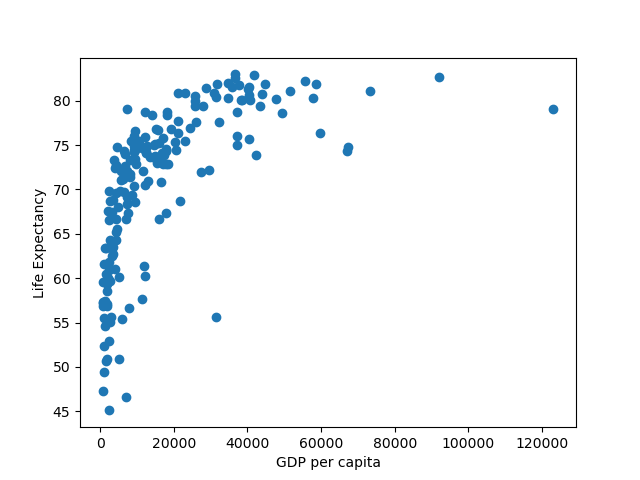
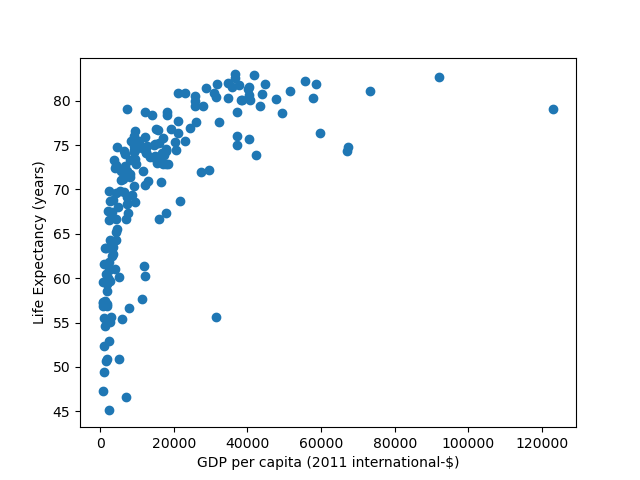
Improved report

Changed region(s): [[0.3125, 0.9375, 0.7188, 1.0], [0.0312, 0.3438, 0.0938, 0.6562]]

diff --git a/assignment1/src/internet_household_gdp.py b/assignment1/src/internet_household_gdp.py
@@ -1,0 +1,67 @@
+import numpy as np
+import pandas as pd
+import sys
+import matplotlib.pyplot as plt
+
+# Which countries have high life expectancy but have low GDP?
+# For the sake of the assignment,
+# lets assume that high and low represents is based on the standard deviation.
+# To which extent can be set by adjusting the variable STD_CONSTANT below
+
+# 0.253 is a z score indicating 60 (or 40) %.
+STD_CONSTANT = 0
+SELECTED_YEAR = 2016
+
+# Setup constants
+GDP = "Output-side real GDP per capita (2011 international-$)"
+HOUSEHOLD = "Share of one person households (%)"
+INTERNET = "Individuals using the Internet (% of population)"
+
+# use pandas to read csv
+df_gdp = pd.read_csv("../res/gdp.csv")
+df_internet = pd.read_csv("../res/share-of-individuals-using-the-internet.csv")
+df_households = pd.read_csv("../res/one-person-households.csv")
+
+# filter data on selected year
+gdp_entries = df_gdp[(df_gdp["Year"] == SELECTED_YEAR)]
+internet_entries = df_internet[(df_internet["Year"] == SELECTED_YEAR)]
+household_entries = df_households[(df_households["Year"] == SELECTED_YEAR)]
+
+
+# merge entries with inner join. Excluding entities not available in both datasets.
+merged_entries = pd.merge(gdp_entries, internet_entries, on=["Code", "Year", "Entity"])
+merged_entries = pd.merge(merged_entries, household_entries, on=["Code", "Year", "Entity"])
+
+print(merged_entries.count)
+
+# get standard deviation and mean from entries
+gdp_std = np.std(merged_entries[GDP])
+gdp_mean = np.mean(gdp_entries[GDP])
+
+
+
+highGdp = merged_entries[(merged_entries[GDP] >= gdp_mean + gdp_std * STD_CONSTANT )]
+
+rest = merged_entries.drop(highGdp.index)
+
+
+fig, ax = plt.subplots()
+
+
+inputs = [(highGdp, "blue", "GDP per capita above the mean"),
+            (rest, "gray", "GDP per capita below or equal to the mean")
+          ]
+
+for df, color, label in inputs:
+    ax.scatter(df[HOUSEHOLD], df[INTERNET], c=color, s=75, label=label,
+               alpha=0.8, edgecolors='none')   
+
+ax.legend()
+
+plt.xlabel(HOUSEHOLD)
+plt.ylabel(INTERNET)
+plt.savefig("../fig/intenet_household_gdp_2016.png")
+plt.show()
+
+
+

diff --git a/assignment1/report.md b/assignment1/report.md
@@ -8,7 +8,7 @@
 
 - Decisions
 
-  - We selected two datasets from different sources. We found datasets containing both life expectancy and GDP per capita. But we wanted to use two datasets for the learning of experience of merging datasets. 
+  - We selected two datasets from different sources. We found datasets containing both life expectancy and GDP per capita. But we wanted to use two datasets for the learning experience of merging datasets. 
   - We decided to merge the data-sets and only include entities within both.
   - We selected year 2017 because that was the latest year that both our datasets had data from.
 
@@ -65,7 +65,11 @@ Out of the 182 entities examined, the following had a life expectancy higher tha
 
 (33 entities)
 
+Below is a code snippet showing the merging of the datasets, how the mean and standard deviation was created and finally how the countries with one standard deviation above the mean were found.
+
 ```python
+# merge entries with inner join. Excluding entities not available in both datasets.
+merged_entries = pd.merge(gdp_entries, life_entries, on=["Code", "Year", "Entity"])
 # Get standard deviation and mean from dataframe
 life_std = np.std(merged_entries[LIFE])
 life_mean = np.mean(merged_entries[LIFE])
@@ -137,17 +141,16 @@ Using this assumption and the previously stated assumption about a high life exp
 - Seychelles
 - Trinidad and Tobago
 
+The following code snippet displays how the countries with a strong economy but not a high life expectancy were found.
 ```python
-# merge dataframes
-merged_entries = pd.merge(gdp_entries, life_entries, on=["Code", "Year", "Entity"])
-
-# get standard deviation and mean from entries (same for life_std and life_mean)
-gdp_std = np.std(merged_entries[GDP])
-gdp_mean = np.mean(merged_entries[GDP])
-
 # filter based on having strong economy
 strong_economy = merged_entries[
     merged_entries[GDP] > gdp_mean + gdp_std * STD_CONSTANT
+]
+
+# filter based on having not high life expectancy
+not_high_life_strong_economy = strong_economy[
+    strong_economy[LIFE] < life_mean + life_std * STD_CONSTANT
 ]
 ```
 
@@ -186,6 +189,8 @@ df_clean = df_clean.rename(columns={GDP: "GDP (2011 international-$)", 'Entity':
 
 df_clean.head(2)
 ```
+
+The cleaned data looked like below:
 
 | index | Entity, 2017  | GDP ((2011 international-\$)) | Life expectancy (years) |
 | ----- | -------       | ----------------------------- | ----------------------- |
@@ -234,27 +239,35 @@ Below are scatterplots exploring correlation between two datasets.
 
 ### Internet usage vs One person households
 
+The graph displays the correlation between the percentage a population of a country that uses the internet and the share of one-person households (2016).
+
 ![img](fig/internet_household_2016.png)
 
-The graph displays the correlation between the percentage of the population that uses the internet and the share of one-person households. It tells us that a country with a high percentage of internet-users does often has a high share of one-person households. This seems reasonable as you can live alone but still interact with friends and family on an everyday basis. It is easy to assume that there is a causation between the two.
 
-However, there might not be a causation at all. Instead, the reason for this correlation might be that people choose to live alone when they have enough money and that internet is used more in countries with a high GDP. 
-- The share of one person households and GDP is strongly correlated. 
-- Internet usage and GDP is strongly correlated
+
+We selected the year 2016 since that was the latest year in which the datasets still had a solid amount of data points. 
+
+The graph tells us that a country with a high percentage of internet-users does often has a high share of one-person households. At a first glance this seems reasonable as with the internet you can live alone but still have the everyday interactions with friends and family as you would have if you lived with other people. It is easy to assume that the internet might have increased the share of people who live alone. 
+
+However, there might not be a causation at all. By coloring countries with a GDP per capita above the mean, one notices that almost all the countries that have a high percentage of internet-users and a high share of one-person households also has a high GDP. At the other hand, almost all countries at the opposite end, low percentage of internet-users and low share of one-person households, has a GDP that is below the mean.
+
+![img](fig/intenet_household_gdp_2016.png)
+
+This means that the correlation between internet usage and one-person households might only exist because of a common factor, the GDP per capita. The comparison below shows the correlation between GDP per capita and an one-person households as well as the correlation between GDP per capita and internet usage. 
 
 GDP per capita vs share of one person households (2016) | GDP per capita vs internet usage (2016)
 - | - 
 ![img](fig/gdp_household_2016.png) | ![img](fig/gdp_internet_2016.png)
 
-Therfore, it is difficult to say whether internet usage makes people more willing to live alone or if people just like to live alone and will do so if they have enough money.
+Because of this, it is difficult to say whether internet usage makes people more likely to live alone or if people just like to live alone and will do so if they have enough money.
 
-The insights obtained is that even though two datasets have a quite clear correlation there might not be a causation. Even though there may seem to be a quite reasonable causation they might both depend on a common factor that causes the correlation.
+The insights we have obtained from this is that even though two datasets have a quite clear correlation there might not be a causation. Even though there may seem to be a quite reasonable causation they might both depend on a common factor that causes the correlation.
 
 ### Annual working hours per person vs Happiness
 
 ![img](fig/working-hours-happiness.png)
 
-The graph explores wheter working less increases your happiness. It shows the self-reported  life satisfaction on the y-axis and the average annual hours worked per employed persons on the x-axis. The graph shows that there is a correlation between how much an person work and their happiness. whether there is a causation between the two or not is difficult to say but it seems reasonable that the amount of work would affect the happiness as with more work you won't have as much spare time to do things you enjoy and like. Of course, there are also many other factors that affects one's happiness, but it still seems reasonable that there is at least a weak causation between amount of work and happiness.
+The graph explores whether working less increases your happiness. It shows the self-reported  life satisfaction on the y-axis and the average annual hours worked per employed persons on the x-axis. The graph shows that there is a correlation between how much an person work and their happiness. whether there is a causation between the two or not is difficult to say but it seems reasonable that the amount of work would affect the happiness as with more work you won't have as much spare time to do things you enjoy and like. Of course, there are also many other factors that affects one's happiness, but it still seems reasonable that there is at least a weak causation between amount of work and happiness.
 
 ## The correlation between age and happiness
 
